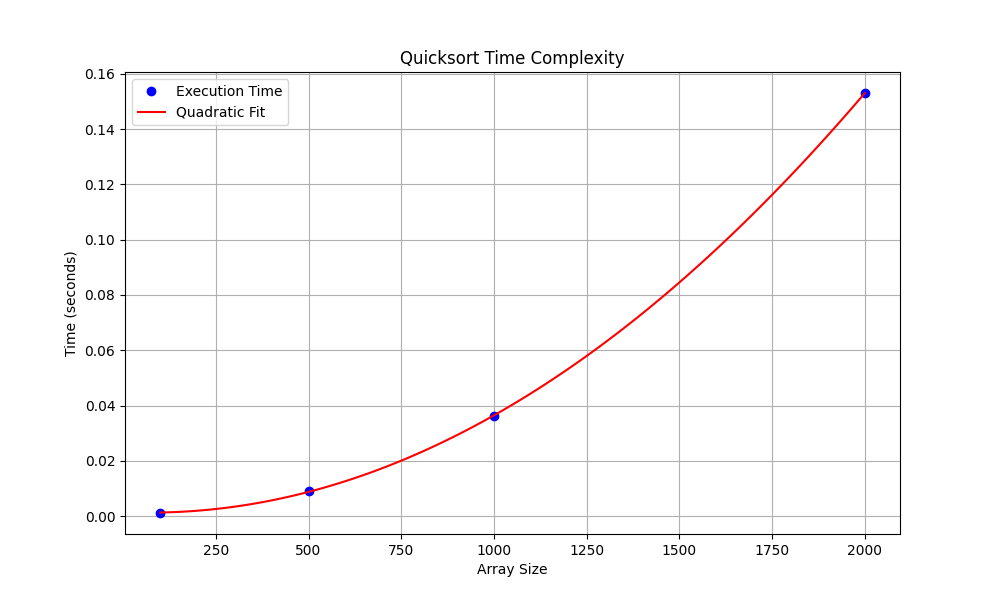
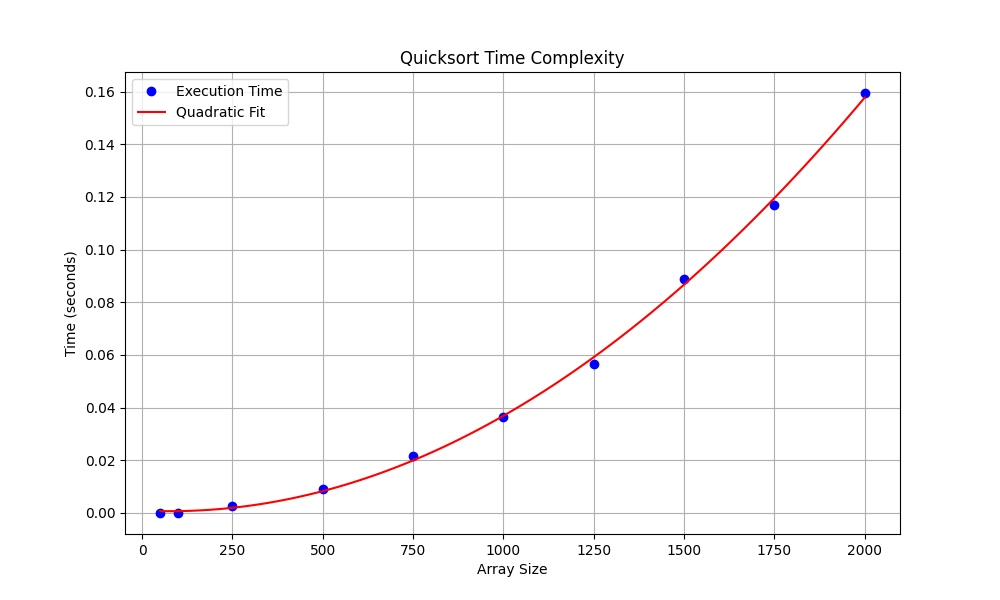
last tweak to 4

diff --git a/ex4.py b/ex4.py
@@ -40,7 +40,7 @@ if __name__ == "__main__":
     quicksort(arr, 0, len(arr) - 1)
     print("Sorted array:", arr)
 
-    sizes = [100, 500, 1000, 2000]  # Sizes of arrays to test
+    sizes = [50,100, 250, 500, 750, 1000,1250, 1500, 1750, 2000]  # Sizes of arrays to test
     timings = []
     for size in sizes:
         arr = list(range(size, 0, -1))  # Create an array in descending order
